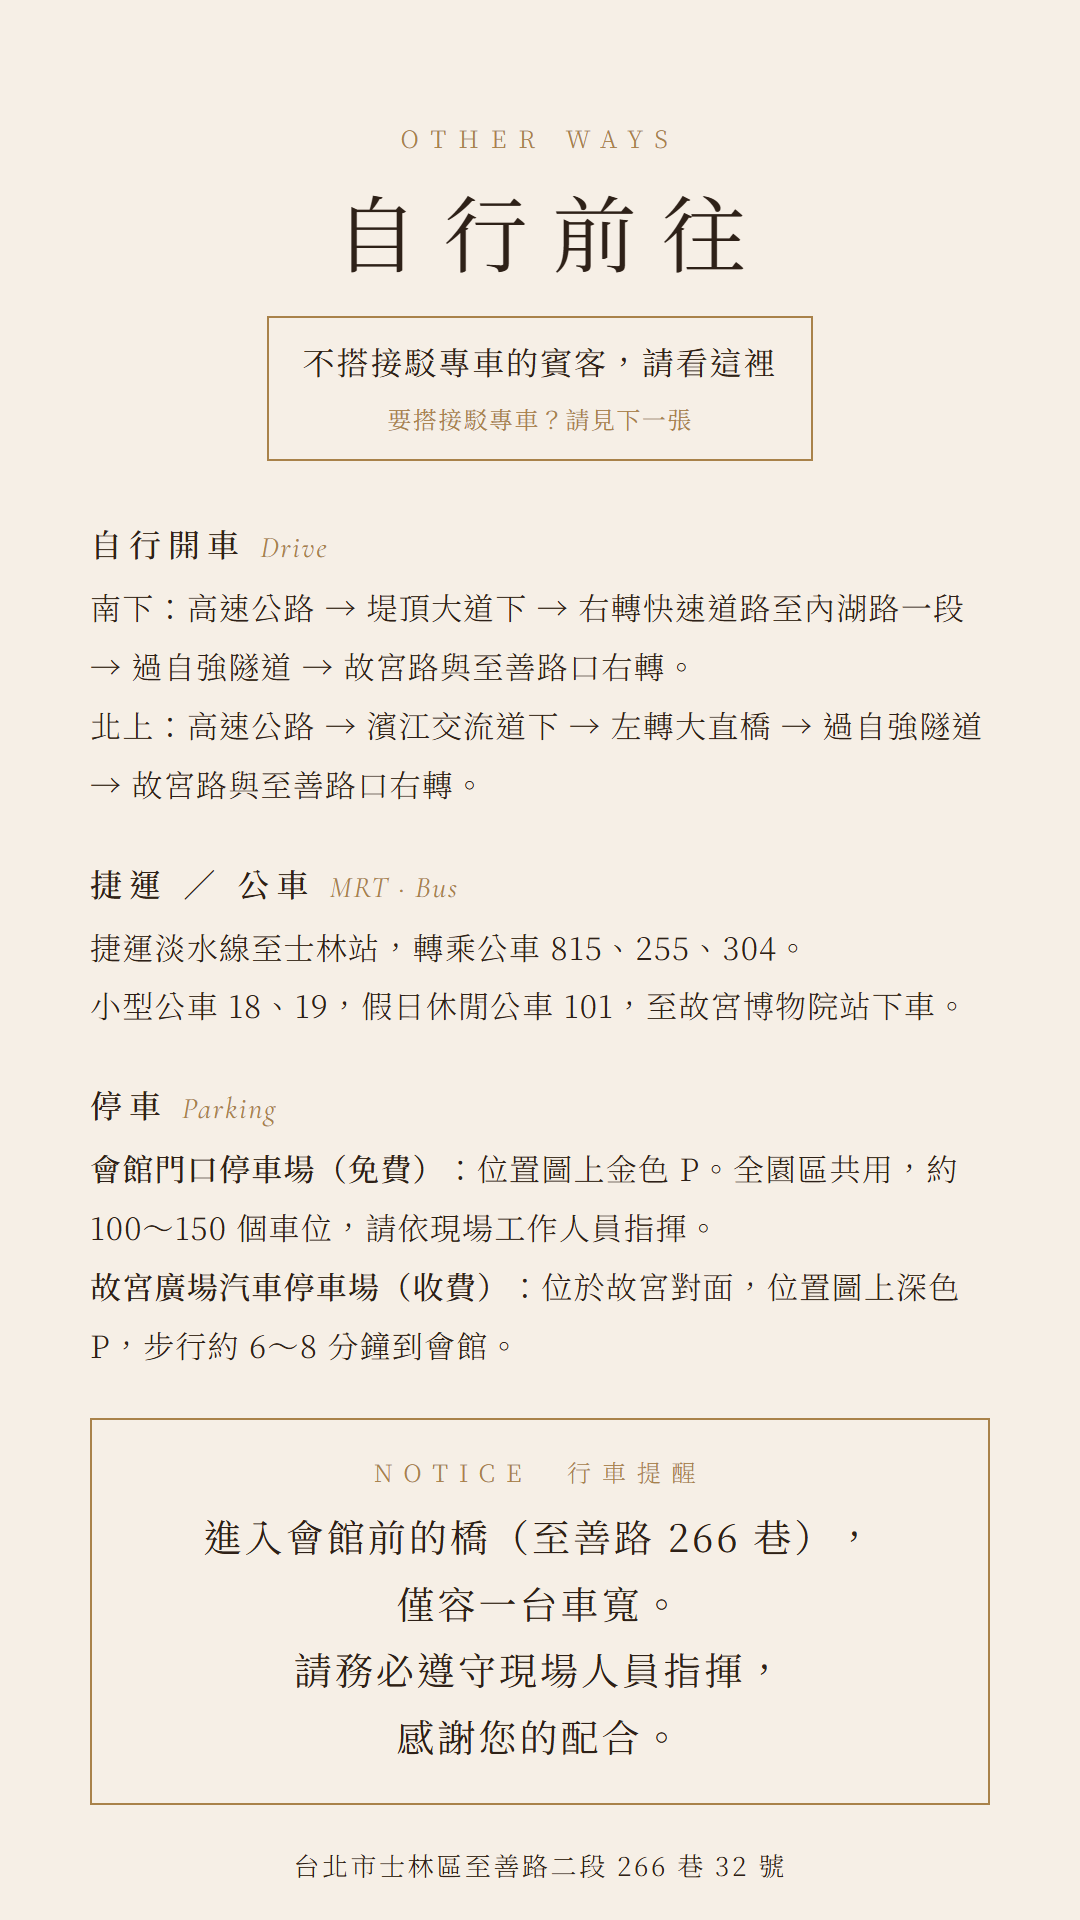
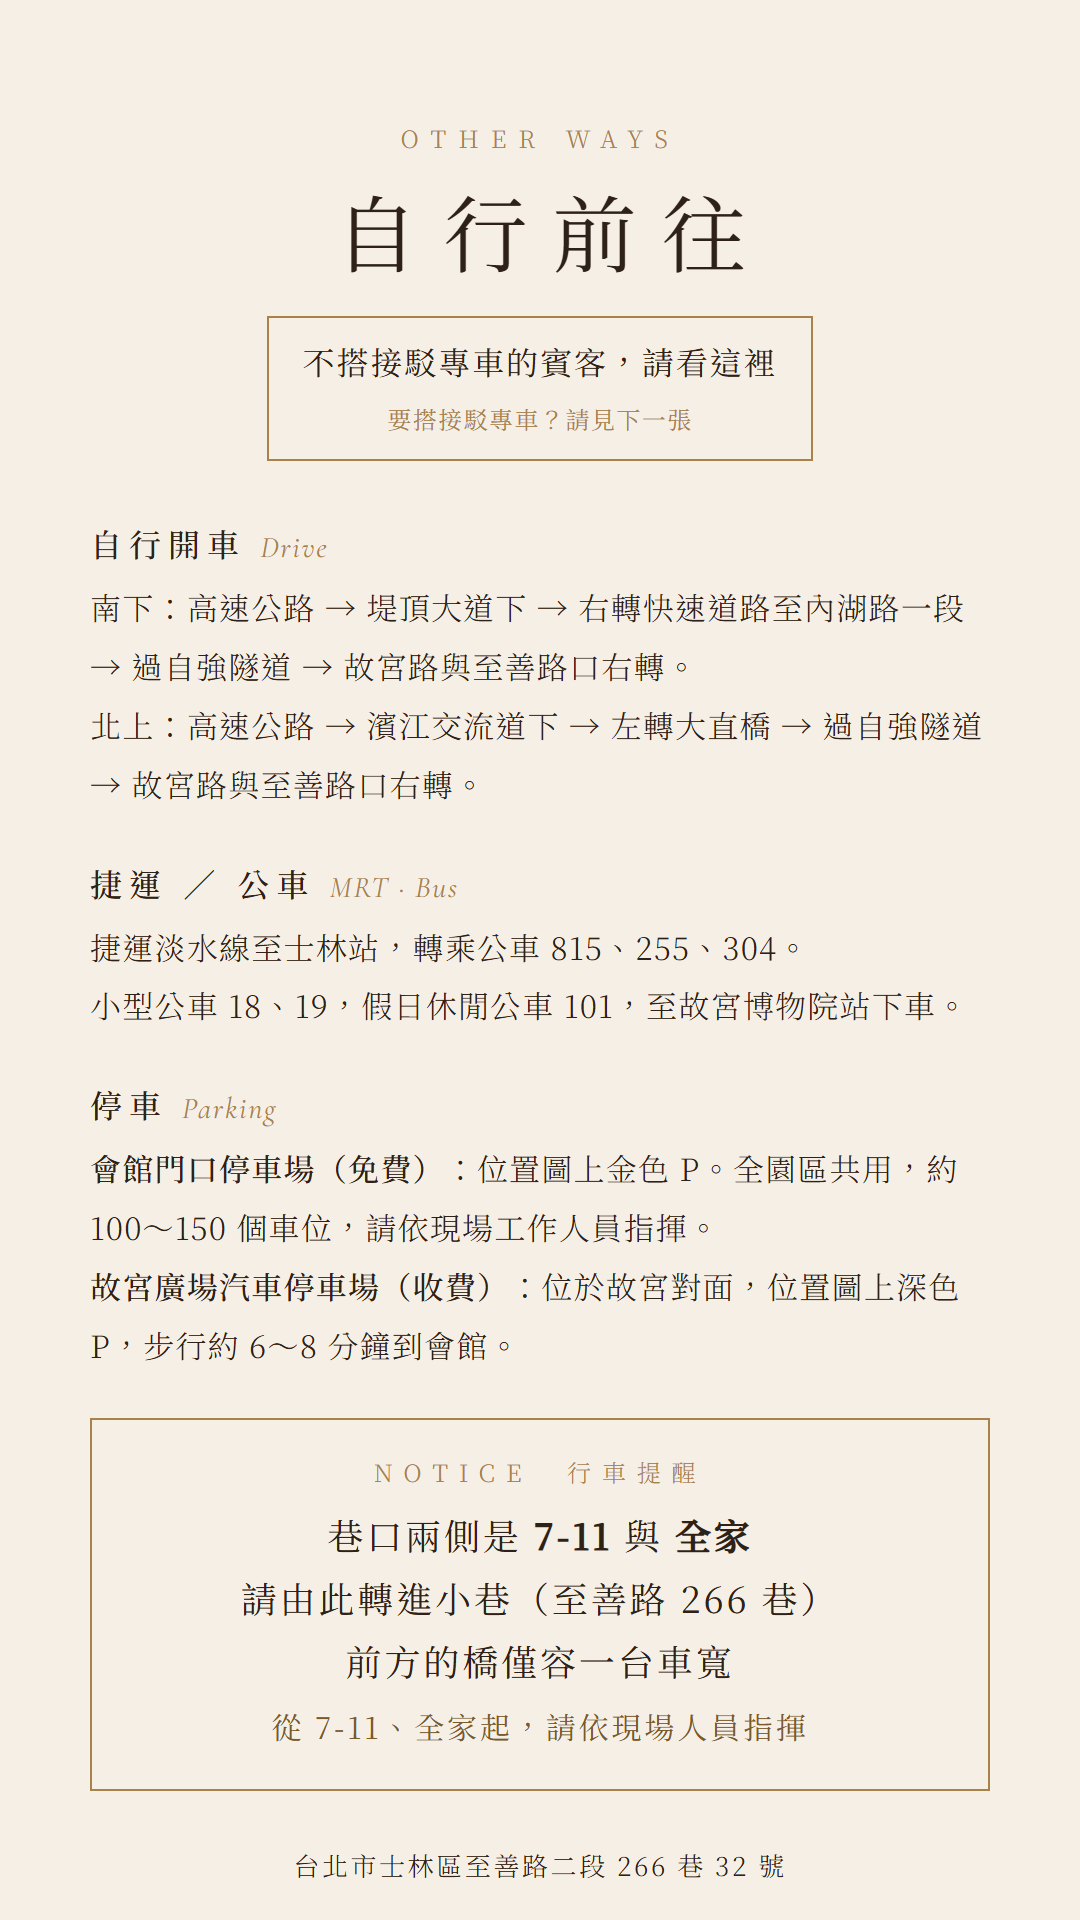
Add 7-11 / FamilyMart landmark directions before the bridge

Changed region(s): [[0.1833, 0.7812, 0.7333, 0.9375]]

diff --git a/index.html b/index.html
@@ -95,6 +95,14 @@ p{font-size:15px;letter-spacing:.06em}
 .notice{border:1px solid var(--gold);padding:22px 20px;margin:0 0 6px;text-align:center}
 .notice .t{font-size:12px;letter-spacing:.4em;color:var(--gold);margin-bottom:6px}
 .notice .m{font-size:16px;font-weight:400;letter-spacing:.08em;line-height:1.8}
+.notice{text-align:left}
+.notice .t{text-align:center}
+.rd{list-style:none;padding:0;margin:10px 0 12px}
+.rd li{display:flex;gap:12px;align-items:flex-start;margin-bottom:10px;font-size:17px;line-height:1.7}
+.rd span{flex:0 0 30px;height:30px;border-radius:50%;background:var(--gold);color:#fff;display:flex;align-items:center;justify-content:center;font-size:15px;margin-top:1px}
+.rd b{font-weight:500}
+.notice .m{font-size:14px;line-height:1.85;padding-top:10px;border-top:1px solid rgba(169,130,74,.35)}
+
 
 /* transport */
 .tr{text-align:left}
@@ -190,11 +198,11 @@ footer p{margin-top:10px;font-size:13px;letter-spacing:.3em;color:var(--gold)}
     <a class="btn" href="#shuttle">接駁專車</a>
   
     <p class="calhelp" id="calHelp">按了沒反應？改用
-      <a href="wedding.ics">iPhone 日曆</a>｜<a target="_blank" rel="noopener" id="calGoogle" href="https://calendar.google.com/calendar/render?action=TEMPLATE&text=%E9%A1%8F%E5%9D%87%E7%BF%B0%20%EF%BC%86%20%E5%91%A8%E7%A2%A9%E6%85%88%20%E5%A9%9A%E7%A6%AE%EF%BC%8817%3A30%20%E8%AD%89%E5%A9%9A%E5%84%80%E5%BC%8F%EF%BC%8F18%3A00%20%E5%AE%B4%E5%AE%A2%EF%BC%89&dates=20270109T093000Z%2F20270109T133000Z&details=16%3A00%20%E8%B5%B7%E9%96%8B%E6%94%BE%E9%80%B2%E5%A0%B4%EF%BC%88%E5%9C%92%E5%8D%80%E7%84%A1%E5%85%B6%E4%BB%96%E8%B3%93%E5%AE%A2%E6%99%82%E7%9A%86%E5%8F%AF%E6%8B%8D%E7%85%A7%EF%BC%89%E3%80%8217%3A30%20%E8%AD%89%E5%A9%9A%E5%84%80%E5%BC%8F%EF%BC%8C18%3A00%20%E5%AE%B4%E5%AE%A2%E3%80%82%E9%80%B2%E5%85%A5%E6%9C%83%E9%A4%A8%E5%89%8D%E7%9A%84%E6%A9%8B%EF%BC%88%E8%87%B3%E5%96%84%E8%B7%AF%20266%20%E5%B7%B7%EF%BC%89%E5%83%85%E5%AE%B9%E4%B8%80%E5%8F%B0%E8%BB%8A%E5%AF%AC%EF%BC%8C%E8%AB%8B%E5%8B%99%E5%BF%85%E9%81%B5%E5%AE%88%E7%8F%BE%E5%A0%B4%E4%BA%BA%E5%93%A1%E6%8C%87%E6%8F%AE%E3%80%82&location=%E9%9D%92%E9%9D%92%E9%A3%9F%E5%B0%9A%E8%8A%B1%E5%9C%92%E6%9C%83%E9%A4%A8%20%E5%A9%9A%E5%AE%B4%E5%BB%B3%E3%80%8C%E6%98%9F%E7%A9%BA%E4%B9%8B%E6%A3%AE%E3%80%8D%EF%BC%88%E5%8F%B0%E5%8C%97%E5%B8%82%E5%A3%AB%E6%9E%97%E5%8D%80%E8%87%B3%E5%96%84%E8%B7%AF%E4%BA%8C%E6%AE%B5266%E5%B7%B732%E8%99%9F%EF%BC%89&ctz=Asia%2FTaipei">Google 日曆</a><br>
+      <a href="wedding.ics">iPhone 日曆</a>｜<a target="_blank" rel="noopener" id="calGoogle" href="https://calendar.google.com/calendar/render?action=TEMPLATE&text=%E9%A1%8F%E5%9D%87%E7%BF%B0%20%EF%BC%86%20%E5%91%A8%E7%A2%A9%E6%85%88%20%E5%A9%9A%E7%A6%AE%EF%BC%8817%3A30%20%E8%AD%89%E5%A9%9A%E5%84%80%E5%BC%8F%EF%BC%8F18%3A00%20%E5%AE%B4%E5%AE%A2%EF%BC%89&dates=20270109T093000Z%2F20270109T133000Z&details=16%3A00%20%E8%B5%B7%E9%96%8B%E6%94%BE%E9%80%B2%E5%A0%B4%EF%BC%88%E5%9C%92%E5%8D%80%E7%84%A1%E5%85%B6%E4%BB%96%E8%B3%93%E5%AE%A2%E6%99%82%E7%9A%86%E5%8F%AF%E6%8B%8D%E7%85%A7%EF%BC%89%E3%80%8217%3A30%20%E8%AD%89%E5%A9%9A%E5%84%80%E5%BC%8F%EF%BC%8C18%3A00%20%E5%AE%B4%E5%AE%A2%E3%80%82%E5%B7%B7%E5%8F%A3%E5%85%A9%E5%81%B4%E6%98%AF%207-11%20%E8%88%87%E5%85%A8%E5%AE%B6%EF%BC%8C%E8%AB%8B%E7%94%B1%E6%AD%A4%E8%BD%89%E9%80%B2%E5%B0%8F%E5%B7%B7%EF%BC%88%E8%87%B3%E5%96%84%E8%B7%AF%20266%20%E5%B7%B7%EF%BC%89%EF%BC%8C%E5%89%8D%E6%96%B9%E7%9A%84%E6%A9%8B%E5%83%85%E5%AE%B9%E4%B8%80%E5%8F%B0%E8%BB%8A%E5%AF%AC%EF%BC%8C%E5%BE%9E%207-11%E3%80%81%E5%85%A8%E5%AE%B6%E8%B5%B7%E8%AB%8B%E4%BE%9D%E7%8F%BE%E5%A0%B4%E4%BA%BA%E5%93%A1%E6%8C%87%E6%8F%AE%E3%80%82&location=%E9%9D%92%E9%9D%92%E9%A3%9F%E5%B0%9A%E8%8A%B1%E5%9C%92%E6%9C%83%E9%A4%A8%20%E5%A9%9A%E5%AE%B4%E5%BB%B3%E3%80%8C%E6%98%9F%E7%A9%BA%E4%B9%8B%E6%A3%AE%E3%80%8D%EF%BC%88%E5%8F%B0%E5%8C%97%E5%B8%82%E5%A3%AB%E6%9E%97%E5%8D%80%E8%87%B3%E5%96%84%E8%B7%AF%E4%BA%8C%E6%AE%B5266%E5%B7%B732%E8%99%9F%EF%BC%89&ctz=Asia%2FTaipei">Google 日曆</a><br>
       <span id="calLine" style="display:none">您正在 LINE 裡開啟，若仍沒反應，請改用 <b>Safari</b> 或 <b>Chrome</b> 開啟這個網頁。</span></p>
     <div class="calpick" id="calPick" hidden>
       <div class="cp-t">請選擇您使用的日曆</div>
-      <a class="btn fill" target="_blank" rel="noopener" href="https://calendar.google.com/calendar/render?action=TEMPLATE&text=%E9%A1%8F%E5%9D%87%E7%BF%B0%20%EF%BC%86%20%E5%91%A8%E7%A2%A9%E6%85%88%20%E5%A9%9A%E7%A6%AE%EF%BC%8817%3A30%20%E8%AD%89%E5%A9%9A%E5%84%80%E5%BC%8F%EF%BC%8F18%3A00%20%E5%AE%B4%E5%AE%A2%EF%BC%89&dates=20270109T093000Z%2F20270109T133000Z&details=16%3A00%20%E8%B5%B7%E9%96%8B%E6%94%BE%E9%80%B2%E5%A0%B4%EF%BC%88%E5%9C%92%E5%8D%80%E7%84%A1%E5%85%B6%E4%BB%96%E8%B3%93%E5%AE%A2%E6%99%82%E7%9A%86%E5%8F%AF%E6%8B%8D%E7%85%A7%EF%BC%89%E3%80%8217%3A30%20%E8%AD%89%E5%A9%9A%E5%84%80%E5%BC%8F%EF%BC%8C18%3A00%20%E5%AE%B4%E5%AE%A2%E3%80%82%E9%80%B2%E5%85%A5%E6%9C%83%E9%A4%A8%E5%89%8D%E7%9A%84%E6%A9%8B%EF%BC%88%E8%87%B3%E5%96%84%E8%B7%AF%20266%20%E5%B7%B7%EF%BC%89%E5%83%85%E5%AE%B9%E4%B8%80%E5%8F%B0%E8%BB%8A%E5%AF%AC%EF%BC%8C%E8%AB%8B%E5%8B%99%E5%BF%85%E9%81%B5%E5%AE%88%E7%8F%BE%E5%A0%B4%E4%BA%BA%E5%93%A1%E6%8C%87%E6%8F%AE%E3%80%82&location=%E9%9D%92%E9%9D%92%E9%A3%9F%E5%B0%9A%E8%8A%B1%E5%9C%92%E6%9C%83%E9%A4%A8%20%E5%A9%9A%E5%AE%B4%E5%BB%B3%E3%80%8C%E6%98%9F%E7%A9%BA%E4%B9%8B%E6%A3%AE%E3%80%8D%EF%BC%88%E5%8F%B0%E5%8C%97%E5%B8%82%E5%A3%AB%E6%9E%97%E5%8D%80%E8%87%B3%E5%96%84%E8%B7%AF%E4%BA%8C%E6%AE%B5266%E5%B7%B732%E8%99%9F%EF%BC%89&ctz=Asia%2FTaipei">Google 日曆<small>使用 Gmail／Google 帳號</small></a>
+      <a class="btn fill" target="_blank" rel="noopener" href="https://calendar.google.com/calendar/render?action=TEMPLATE&text=%E9%A1%8F%E5%9D%87%E7%BF%B0%20%EF%BC%86%20%E5%91%A8%E7%A2%A9%E6%85%88%20%E5%A9%9A%E7%A6%AE%EF%BC%8817%3A30%20%E8%AD%89%E5%A9%9A%E5%84%80%E5%BC%8F%EF%BC%8F18%3A00%20%E5%AE%B4%E5%AE%A2%EF%BC%89&dates=20270109T093000Z%2F20270109T133000Z&details=16%3A00%20%E8%B5%B7%E9%96%8B%E6%94%BE%E9%80%B2%E5%A0%B4%EF%BC%88%E5%9C%92%E5%8D%80%E7%84%A1%E5%85%B6%E4%BB%96%E8%B3%93%E5%AE%A2%E6%99%82%E7%9A%86%E5%8F%AF%E6%8B%8D%E7%85%A7%EF%BC%89%E3%80%8217%3A30%20%E8%AD%89%E5%A9%9A%E5%84%80%E5%BC%8F%EF%BC%8C18%3A00%20%E5%AE%B4%E5%AE%A2%E3%80%82%E5%B7%B7%E5%8F%A3%E5%85%A9%E5%81%B4%E6%98%AF%207-11%20%E8%88%87%E5%85%A8%E5%AE%B6%EF%BC%8C%E8%AB%8B%E7%94%B1%E6%AD%A4%E8%BD%89%E9%80%B2%E5%B0%8F%E5%B7%B7%EF%BC%88%E8%87%B3%E5%96%84%E8%B7%AF%20266%20%E5%B7%B7%EF%BC%89%EF%BC%8C%E5%89%8D%E6%96%B9%E7%9A%84%E6%A9%8B%E5%83%85%E5%AE%B9%E4%B8%80%E5%8F%B0%E8%BB%8A%E5%AF%AC%EF%BC%8C%E5%BE%9E%207-11%E3%80%81%E5%85%A8%E5%AE%B6%E8%B5%B7%E8%AB%8B%E4%BE%9D%E7%8F%BE%E5%A0%B4%E4%BA%BA%E5%93%A1%E6%8C%87%E6%8F%AE%E3%80%82&location=%E9%9D%92%E9%9D%92%E9%A3%9F%E5%B0%9A%E8%8A%B1%E5%9C%92%E6%9C%83%E9%A4%A8%20%E5%A9%9A%E5%AE%B4%E5%BB%B3%E3%80%8C%E6%98%9F%E7%A9%BA%E4%B9%8B%E6%A3%AE%E3%80%8D%EF%BC%88%E5%8F%B0%E5%8C%97%E5%B8%82%E5%A3%AB%E6%9E%97%E5%8D%80%E8%87%B3%E5%96%84%E8%B7%AF%E4%BA%8C%E6%AE%B5266%E5%B7%B732%E8%99%9F%EF%BC%89&ctz=Asia%2FTaipei">Google 日曆<small>使用 Gmail／Google 帳號</small></a>
       <a class="btn" href="wedding.ics">Outlook／Apple 日曆<small>下載行事曆檔後開啟</small></a>
     </div>
   </div>
@@ -261,7 +269,12 @@ footer p{margin-top:10px;font-size:13px;letter-spacing:.3em;color:var(--gold)}
 <section class="reveal">
   <div class="notice">
     <div class="t">NOTICE　行車提醒</div>
-    <div class="m">進入會館前的橋（至善路 266 巷），<br>僅容一台車寬。<br>請務必遵守現場人員指揮，<br>感謝您的配合。</div>
+    <ol class="rd">
+      <li><span>1</span><div>看到巷口兩側的 <b>7-11</b> 與 <b>全家</b></div></li>
+      <li><span>2</span><div>在這裡<b>轉進小巷</b>（至善路 266 巷）</div></li>
+      <li><span>3</span><div>前方的<b>橋僅容一台車寬</b></div></li>
+    </ol>
+    <div class="m">從 7-11、全家這裡開始，現場工作人員會指揮車輛，請務必遵守。感謝您的配合。</div>
   </div>
 </section>
 

diff --git a/pass.html b/pass.html
@@ -39,6 +39,7 @@ body{background:#2E2118;color:var(--ink);font-family:var(--serif);font-weight:40
 .note .t{font-size:12px;letter-spacing:.4em;color:var(--gold);margin-bottom:6px;font-weight:500}
 .note p{font-size:17px;line-height:1.75;font-weight:500;letter-spacing:.04em}
 .note p+p{margin-top:4px}
+.note b{font-weight:600}
 .co{margin:18px 22px 0;text-align:center;display:none}
 .co.on{display:block}
 .co .name{font-size:18px;font-weight:500;letter-spacing:.12em}
@@ -93,28 +94,10 @@ body{background:#2E2118;color:var(--ink);font-family:var(--serif);font-weight:40
 
     <div class="note">
       <div class="t">DRIVER NOTICE　司機請注意</div>
-      <p>進入會館前的橋（至善路 266 巷），僅容一台車寬。</p>
-      <p>請務必遵守現場人員指揮。</p>
+      <p>巷口兩側是 <b>7-11</b> 與 <b>全家</b>，請由此轉進小巷（至善路 266 巷）。</p>
+      <p>前方的橋僅容一台車寬。</p>
+      <p>從 7-11、全家起，請依現場人員指揮。</p>
     </div>
-
-    <div class="co" id="co">
-      <div class="lab">特約計程車</div>
-      <div class="name" id="coName"></div>
-      <div class="free" id="coFree">免費</div>
-      <ul class="colines" id="coLines"></ul>
-      <a id="coTel" href="#">撥打叫車專線</a>
-    </div>
-
-    <div class="code" id="codeBox">
-      <div class="lab">乘車代碼</div>
-      <b id="code"></b>
-    </div>
-
-    <div class="stub">
-      <div class="script">With love,</div>
-      <p>均翰 ＆ 碩慈</p>
-    </div>
-  </div>
   <div class="tip">請於上車時，將此畫面出示給司機。</div>
   <a class="back bottom" href="./" id="backBottom"><span>‹</span> 返回上一頁</a>
 </div>
